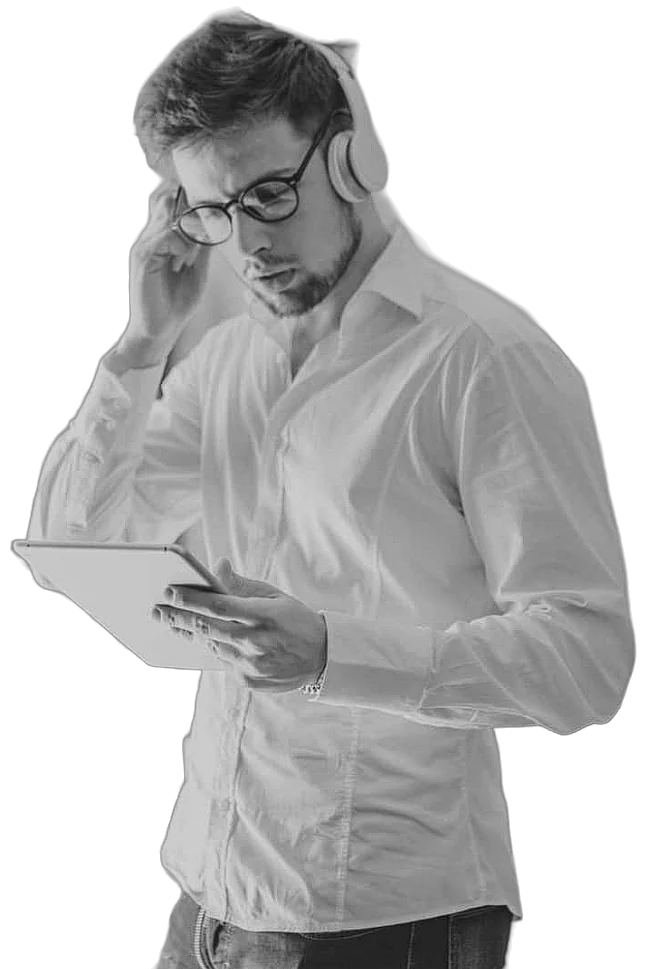
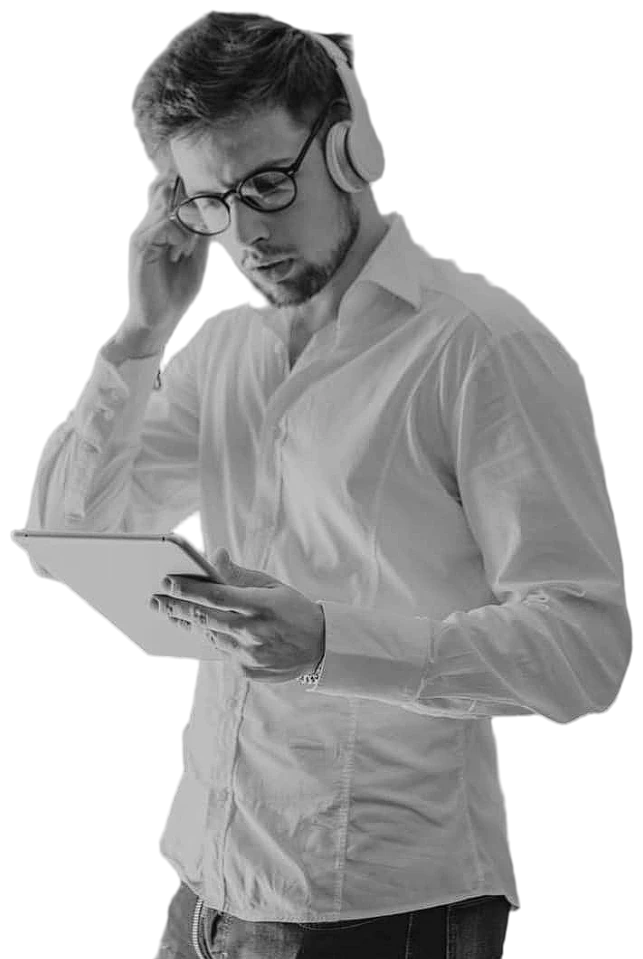
Re-cut hero portrait with a higher-quality background removal
The previous cutout (isnet-general-use) left wall background in the gap
between the raised arm, face and torso, plus a light fringe around the
hair and shoulders. Regenerated portrait.webp from the original photo
with BiRefNet (birefnet-general), then choked the alpha edge slightly
and ran foreground color estimation so no beige wall color bleeds into
semi-transparent edge pixels on the dark theme.

diff --git a/src/components/Portrait3D.tsx b/src/components/Portrait3D.tsx
@@ -68,8 +68,8 @@ export default function Portrait3D() {
         <motion.img
           src={portrait}
           alt="Djordje Stamenkovic"
-          width={646}
-          height={969}
+          width={643}
+          height={959}
           draggable={false}
           style={{ z: 60 }}
           className="absolute bottom-0 left-1/2 h-full w-auto max-w-none -translate-x-1/2 drop-shadow-[0_0_28px_var(--color-accent-soft)] select-none [mask-image:linear-gradient(to_bottom,black_82%,transparent_97%)]"
